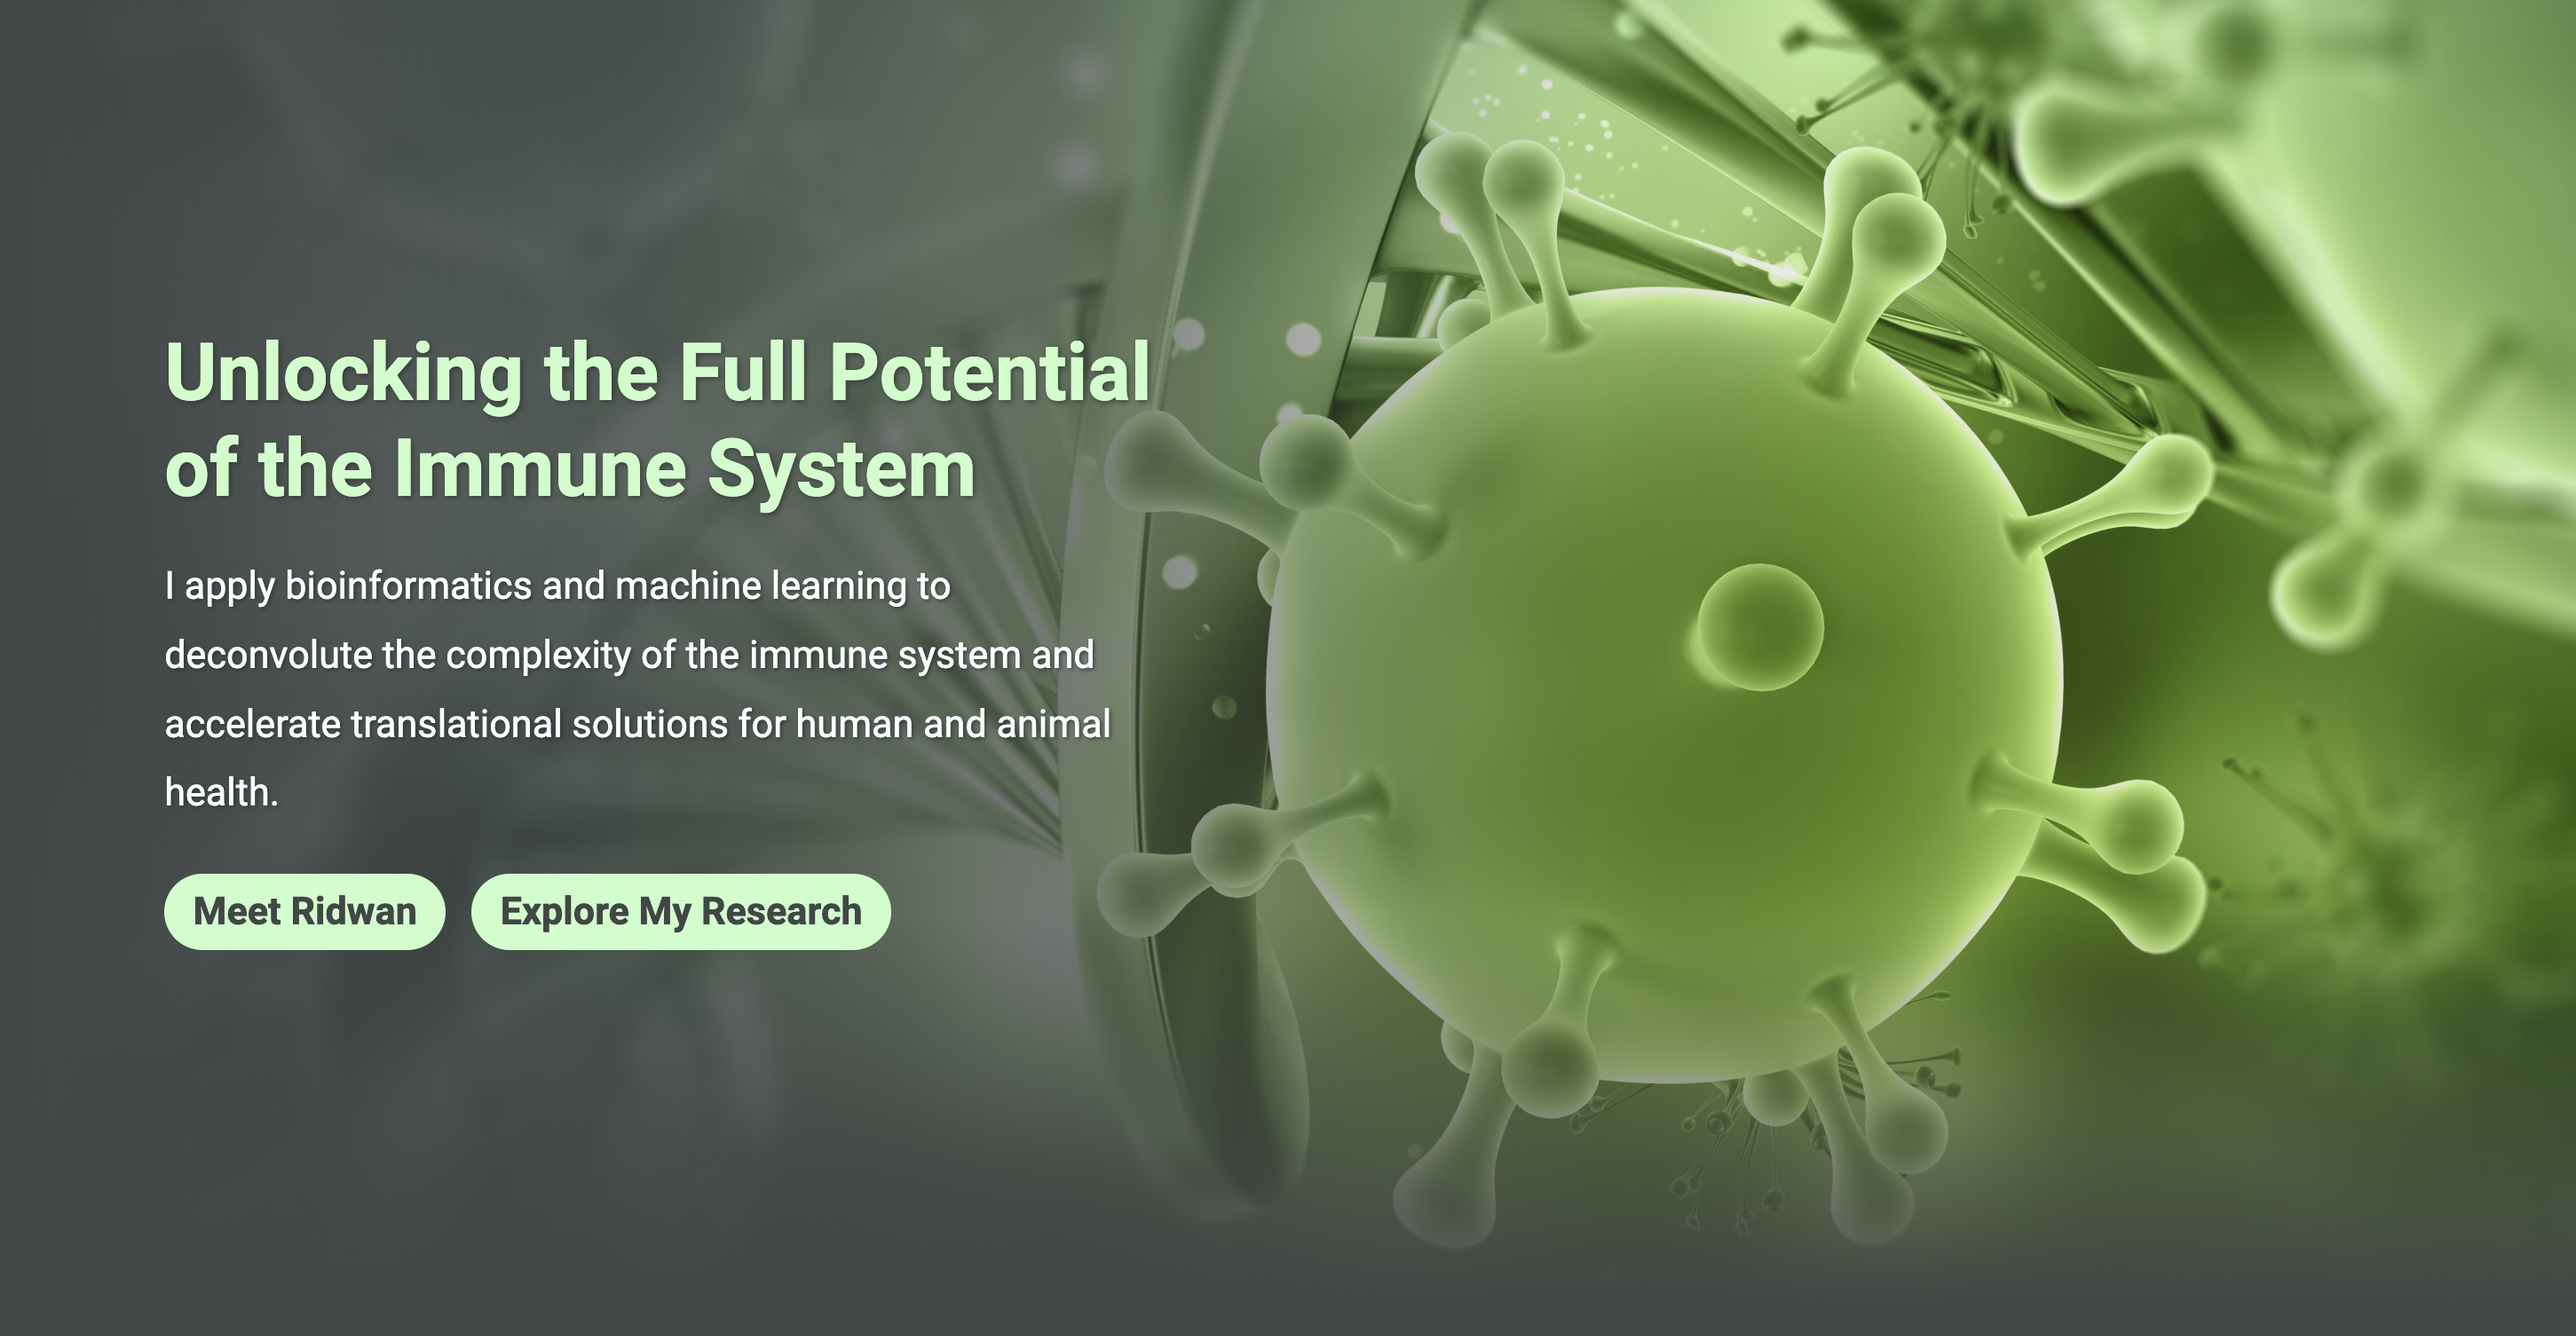
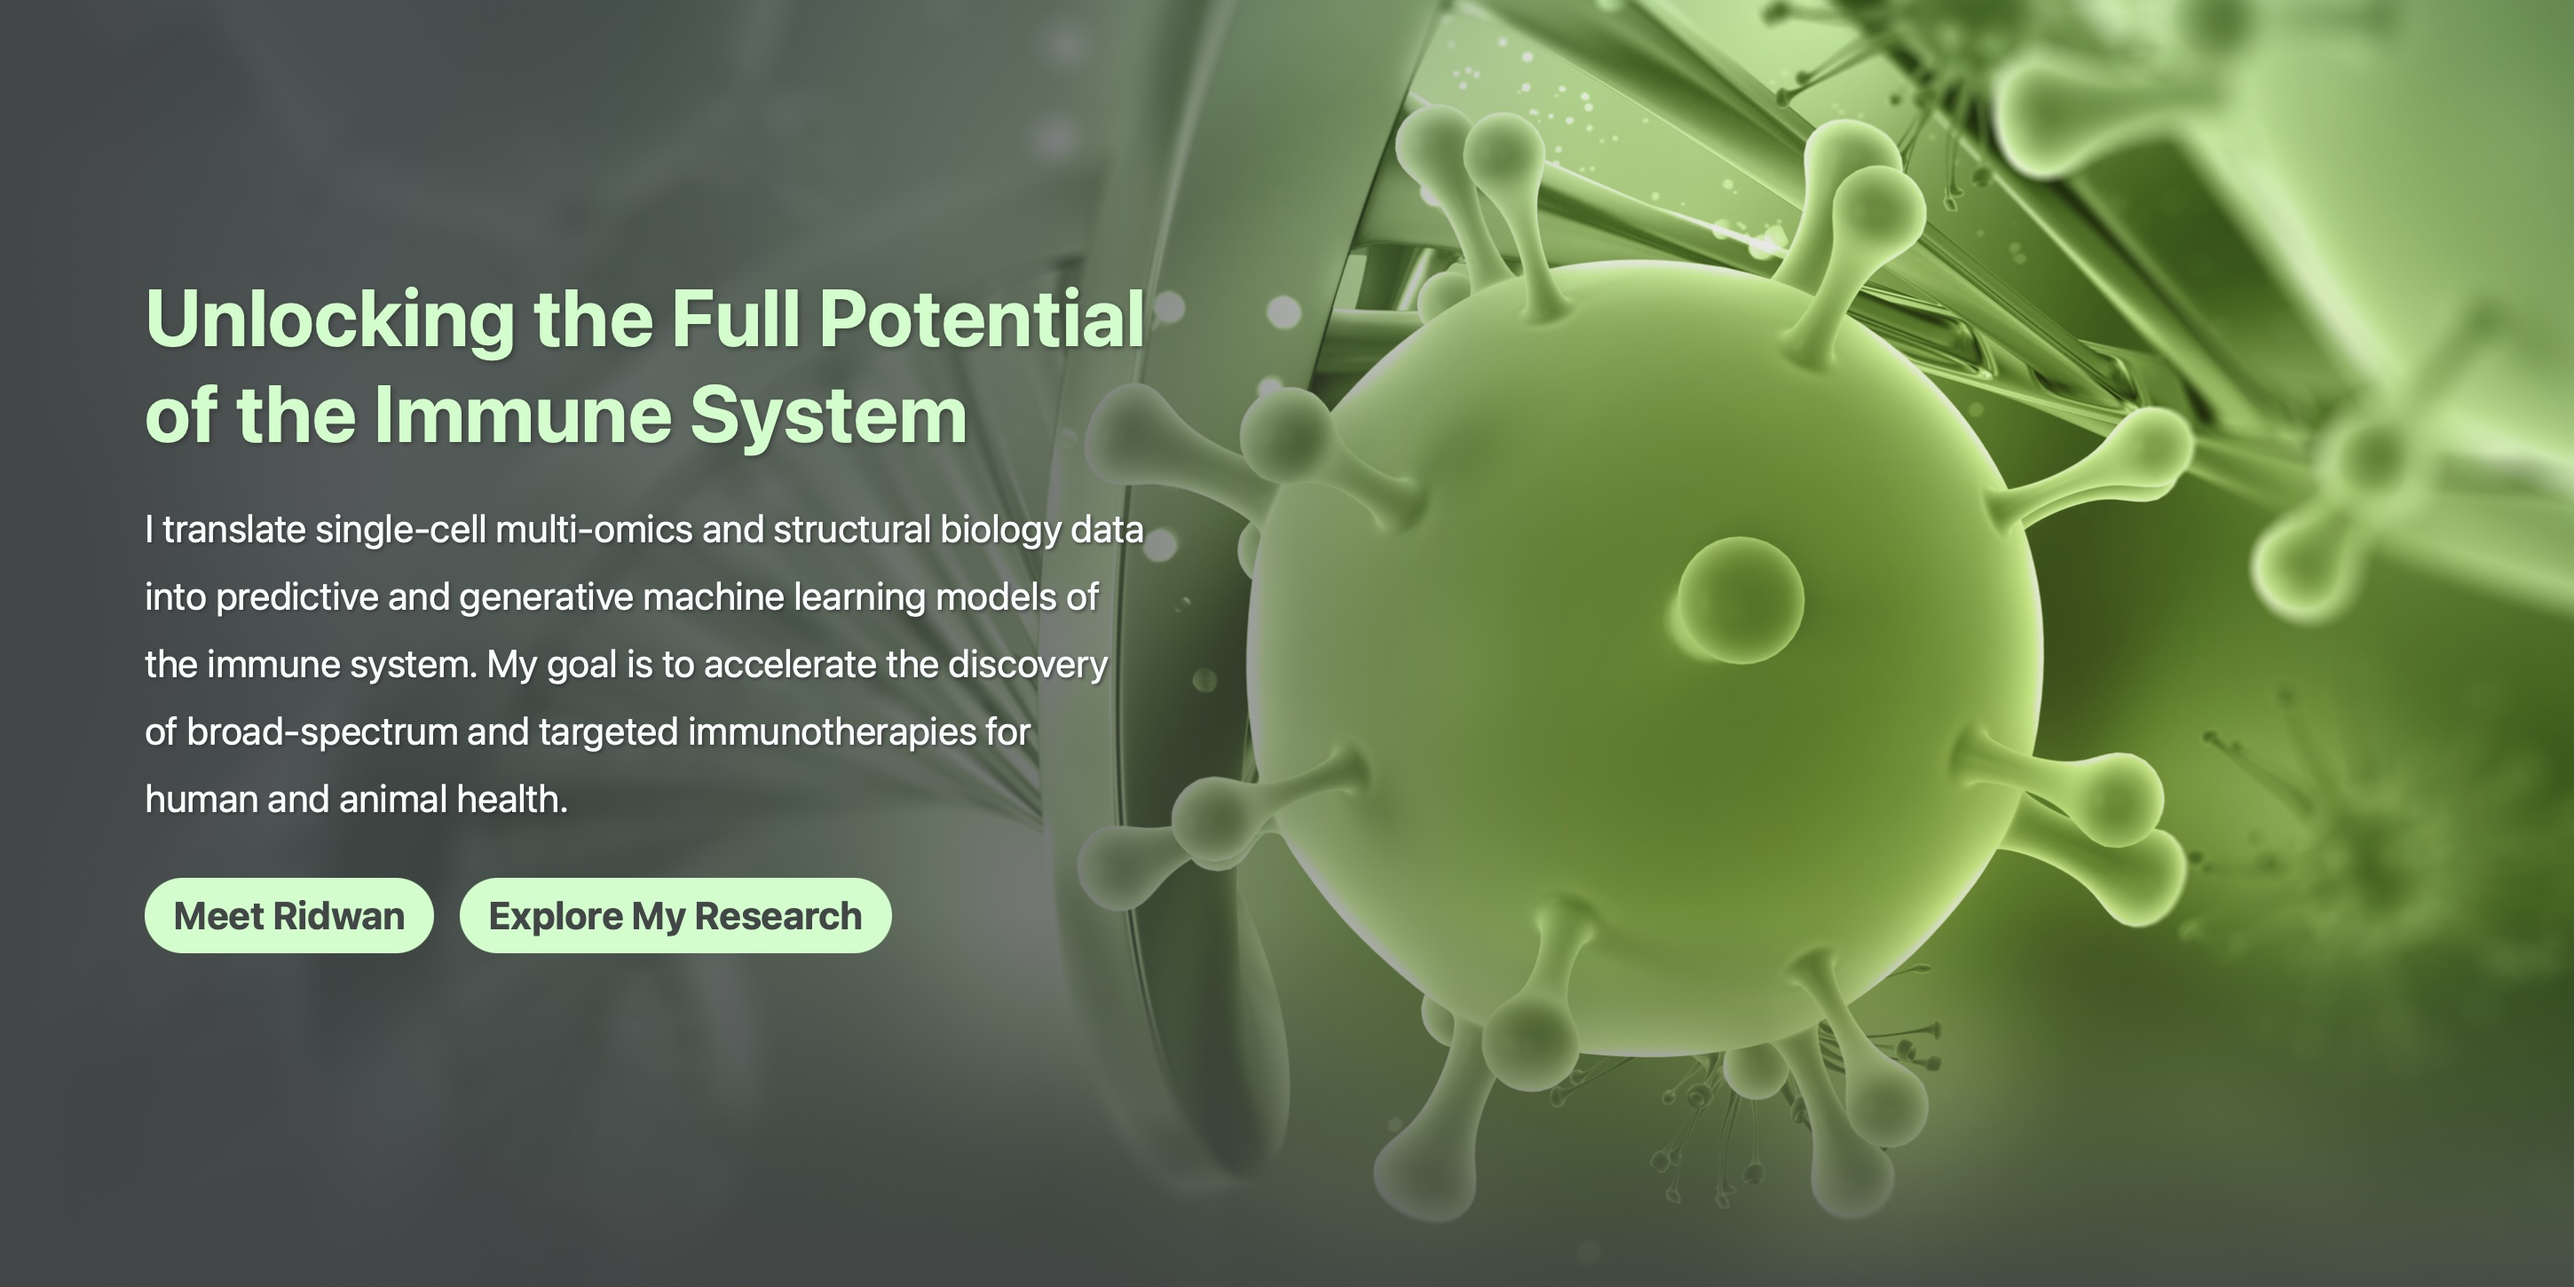
refactor: update site biography, add index redirect, and reorganize image assets

diff --git a/_layouts/default.html b/_layouts/default.html
@@ -52,7 +52,7 @@ layout: compress
         >
         <meta
             property="og:description"
-            content="I translate single-cell multi-omics and structural biology data into predictive and generative machine learning models of the immune system. My goal is to accelerate the discovery of broad-spectrum and targeted immunotherapies for human and animal health."
+            content="I translate single-cell multi-omics and structural biology data into predictive and generative machine learning models of the immune system. My goal is to accelerate the discovery and development of broad-spectrum and targeted immunotherapies for human and animal health"
         >
         <meta
             property="og:image"
@@ -68,7 +68,7 @@ layout: compress
         >
         <meta
             name="twitter:description"
-            content="I translate single-cell multi-omics and structural biology data into predictive and generative machine learning models of the immune system. My goal is to accelerate the discovery of broad-spectrum and targeted immunotherapies for human and animal health."
+            content="I translate single-cell multi-omics and structural biology data into predictive and generative machine learning models of the immune system. My goal is to accelerate the discovery and development of broad-spectrum and targeted immunotherapies for human and animal health"
         >
         <meta
             name="twitter:image"

diff --git a/_pages/about.html b/_pages/about.html
@@ -47,11 +47,10 @@ redirect_from:
 
 <div class="content-text">
     <p>
-        I am a geneticist and computational immunologist translating single-cell
-        multi-omics and structural biology data into predictive and generative
-        machine learning models of the immune system. My goal is to accelerate
-        the discovery and development of broad-spectrum and targeted
-        immunotherapies for human and animal health.
+        I translate single-cell multi-omics and structural biology data into
+        predictive and generative machine learning models of the immune system.
+        My goal is to accelerate the discovery and development of broad-spectrum
+        and targeted immunotherapies for human and animal health.
     </p>
     <p>
         I earned my Ph.D. in Genetics and Genomics from the Department of Animal

diff --git a/_pages/index.html b/_pages/index.html
@@ -4,6 +4,7 @@ permalink: /
 title: ""
 author_profile: false
 sitemap: true
+redirect_to: /about/
 
 ---
 <div class="hero-image-container">
@@ -13,8 +14,9 @@ sitemap: true
         <p>
             I translate single-cell multi-omics and structural biology data into
             predictive and generative machine learning models of the immune
-            system. My goal is to accelerate the discovery of broad-spectrum and
-            targeted immunotherapies for human and animal health.
+            system. My goal is to accelerate the discovery and development of
+            broad-spectrum and targeted immunotherapies for human and animal
+            health.
         </p>
         <a href="https://oridwanbello.github.io/about/" class="btn btn--primary"
             >Meet Ridwan</a
